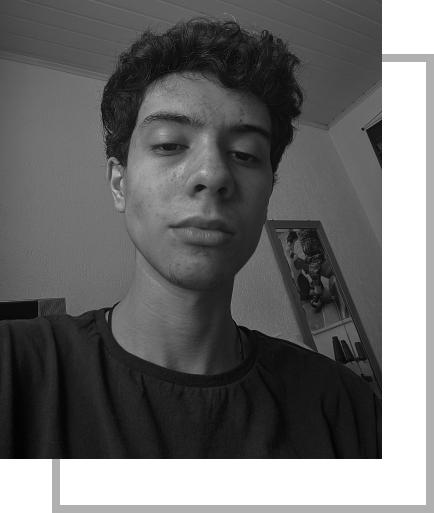
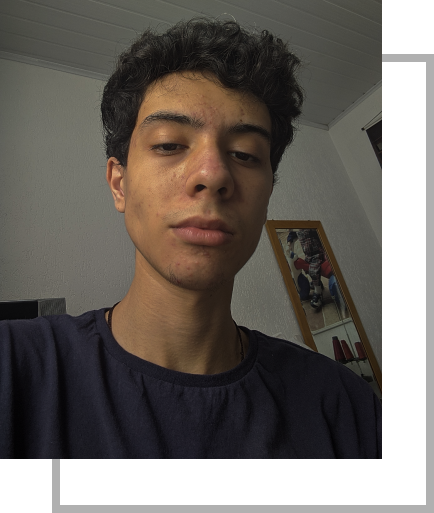
feat: hover effects on sidebar

diff --git a/index.html b/index.html
@@ -3,6 +3,7 @@
 <head>
 	<meta charset="utf-8">
 	<meta name="viewport" content="width=device-width, initial-scale=1">
+	<link rel="stylesheet" href="https://cdn.jsdelivr.net/npm/bootstrap-icons@1.8.1/font/bootstrap-icons.css">
 	<link rel="preconnect" href="https://fonts.googleapis.com">
 	<link rel="preconnect" href="https://fonts.gstatic.com" crossorigin>
 	<link href="https://fonts.googleapis.com/css2?family=Inter:wght@400;700;900&display=swap" rel="stylesheet">
@@ -37,9 +38,9 @@
 			</li>
 		</ul>
 		<ul class="social">
-			<li><a href="https://github.com/rcorrei4" target="__blank"><img src="images/github.svg"></a></li>
-			<li><a href="https://instagram.com/rcorrei4" target="__blank"><img src="images/instagram.svg"></a></li>
-			<li><a href="https://linkedin.com/in/rcorrei4" target="__blank"><img src="images/linkedin.svg"></a></li>
+			<li><a href="https://github.com/rcorrei4" target="__blank"><i class="bi bi-github"></i></li>
+			<li><a href="https://instagram.com/rcorrei4" target="__blank"><i class="bi bi-instagram"></i></a></li>
+			<li><a href="https://linkedin.com/in/rcorrei4" target="__blank"><i class="bi bi-linkedin"></i></a></li>
 		</ul>
 		<img src="images/separator.svg" width="50%">
 	</div>

diff --git a/portfolio.css b/portfolio.css
@@ -62,6 +62,7 @@ div.sidebar {
 }
 
 div.sidebar ul {
+	margin-left: 5px;
 	list-style-type: none;
 	margin-bottom: 40px;
 	padding: 0;
@@ -71,7 +72,25 @@ div.sidebar li {
 	margin-bottom: 30px;
 }
 
+div.sidebar li i {
+	color: #B0B0B0;
+	transition: color .5s;
+}
+
+div.sidebar li .bi-github:hover {
+	color: white;
+}
+
+div.sidebar li .bi-instagram:hover {
+	color: white;
+}
+
+div.sidebar li .bi-linkedin:hover {
+	color: white;
+}
+
 div.sidebar input[type="radio"] {
+	margin: 0;
     opacity: 0;
 }
 
@@ -165,6 +184,12 @@ div.about .skills {
 div.about .content img {
 	width: 25vw;
 	height: auto;
+	filter: saturate(0%);
+	animation: all .5s;
+}
+
+div.about .content img:hover {
+	filter: saturate(50%);
 }
 
 @media screen and (max-width: 768px) {
